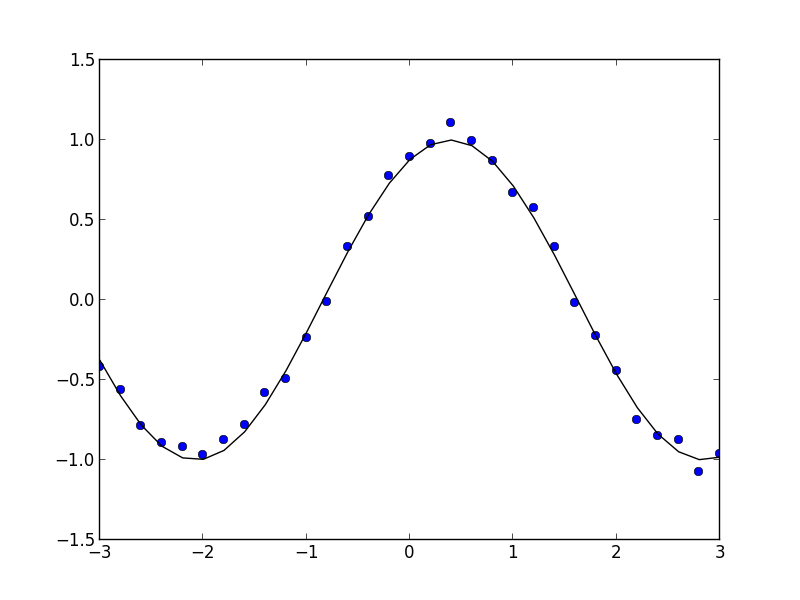
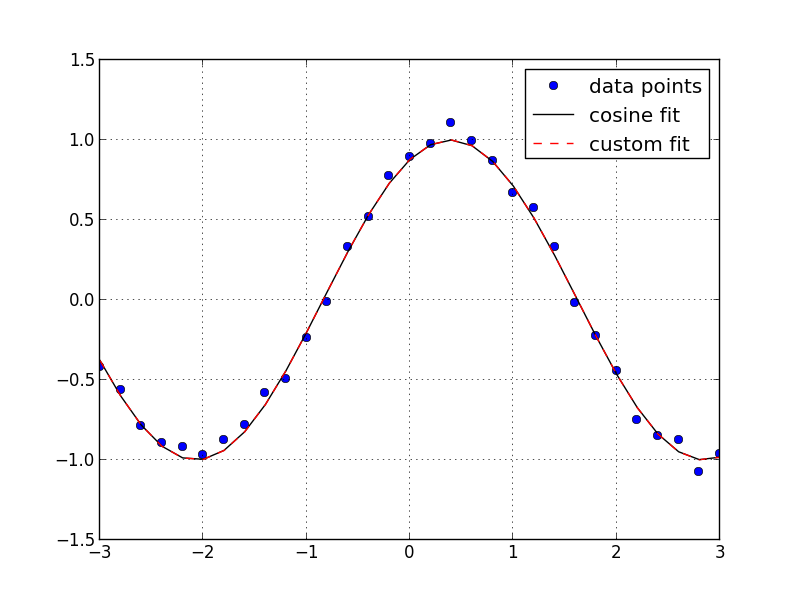
allow to use a custom fit function in the fitting module

Changed region(s): [[0.6562, 0.09, 0.9062, 0.27], [0.25, 0.75, 0.2812, 0.78]]

diff --git a/math/fitting.py b/math/fitting.py
@@ -5,24 +5,36 @@ from scipy import optimize
 from scipy.special import wofz
 import numpy as np
 
-def fit(y, x = None, fit_type='Gaussian'):
+def fit(y, x = None, expression=None, nb_params=None, init=None):
   '''Static method to perform curve fitting directly.
 
   For instance, to fit some (x,y) data with a gaussian function, simply use:
   ::
 
-    F = fit(y, x, fit_type='Gaussian')
+    F = fit(y, x, expression='Gaussian')
 
+  Alternatively you may specify you own function directly defined with Python, like:
+  ::
+    def myf(x, p):
+      return p[0]*x + p[1]
+    F = fit(y, x, expression=myF)
   '''
-  if fit_type == 'Gaussian':
+  if expression == 'Gaussian':
     F = Gaussian()
-  elif fit_type == 'Lorentzian':
+  elif expression == 'Lorentzian':
     F = Lorentzian()
-  elif fit_type == 'Cosine':
+  elif expression == 'Cosine':
     F = Cosine()
   else:
-    print('unknown fitting type: %s' % fit_type)
-    return None
+    F = FitFunction()
+    if not nb_params:
+      print('please specify the number of parameters for your fit function, aborting fit...')
+      return None
+    if not init:
+      init = np.ones(nb_params)
+    for i in range(nb_params):
+      F.add_parameter(init[i], 'p%d' % i)
+    F.expression = expression
   F.fit(y, x)
   return F
 
@@ -60,6 +72,7 @@ class FitFunction:
   
   def __init__(self):
     self.parameters = []
+    self.expression = None
   
   def get_parameters(self):
     '''Return the list of parameters of this fit function.'''
@@ -89,6 +102,11 @@ class FitFunction:
     for i in range(len(params)):
       s += ' * %s = %g\n' % (params[i].name, params[i].value)
     return s
+
+  def compute(self, x):
+    '''Evaluate the fit function at coordinates x.'''
+    p = self.get_parameters()
+    return self.expression(x, p)
 
   def fit(self, y, x = None, verbose = False):
     '''Perform fitting on the given data.
@@ -139,6 +157,9 @@ class Gaussian(FitFunction):
   '''first parameter is position, second is sigma, third is height'''
   def __init__(self, position=0.0, sigma=1.0, height=1.0):
     FitFunction.__init__(self)
+    def G(x, p):
+      return p[2].value * np.exp(-((x-p[0].value)/p[1].value)**2)
+    self.expression = G
     self.add_parameter(position, 'position')
     self.add_parameter(sigma, 'sigma')
     self.add_parameter(height, 'height')
@@ -160,15 +181,13 @@ class Gaussian(FitFunction):
     p = self.get_parameters()
     return 2*p[1].value*np.log(2)
   
-  def compute(self, x):
-    '''Evaluate the gauss function at coordinates x.'''
-    p = self.get_parameters()
-    return p[2].value * np.exp(-((x-p[0].value)/p[1].value)**2)
-
 class Lorentzian(FitFunction):
   '''first parameter is position, second is gamma'''
   def __init__(self, position=0.0, gamma=1.0):
     FitFunction.__init__(self)
+    def L(x, p):
+      return p[1].value/np.pi/((x-p[0].value)**2 + p[1].value**2)
+    self.expression = L
     self.add_parameter(position, 'position')
     self.add_parameter(gamma, 'width')
   
@@ -182,14 +201,13 @@ class Lorentzian(FitFunction):
     p = self.get_parameters()
     return 2*p[1].value
 
-  def compute(self, x):
-    p = self.get_parameters()
-    return p[1].value/np.pi/((x-p[0].value)**2 + p[1].value**2)
-
 class Cosine(FitFunction):
   '''first parameter is position, second is width'''
   def __init__(self, position=0.0, width=1.0):
     FitFunction.__init__(self)
+    def C(x, p):
+      return np.cos(np.pi*(x-p[0].value)/(2*p[1].value))
+    self.expression = C
     self.add_parameter(position, 'position')
     self.add_parameter(width, 'width')
   
@@ -202,10 +220,6 @@ class Cosine(FitFunction):
   def fwhm(self):
     p = self.get_parameters()
     return 3./4*p[1].value
-
-  def compute(self, x):
-    p = self.get_parameters()
-    return np.cos(np.pi*(x-p[0].value)/(2*p[1].value))
 
 def voigt(x, sigma, gamma):
    # The Voigt function is also the real part of 

diff --git a/examples/plotting/cos_fitting.py b/examples/plotting/cos_fitting.py
@@ -4,17 +4,29 @@ from matplotlib import pyplot as plt
 from pymicro.math.fitting import fit
 
 if __name__ == '__main__':
-  '''Basic curve fitting example.'''
+  '''Basic curve fitting example with a cosine function. The data is 
+  also fitted with a custom function slightly different than the default 
+  Cosine, which lead to the same result.'''
   x = np.linspace(-3.0, 3.0, 31)
-  print x
   # generate some noisy data
   np.random.seed(13)
   y = np.cos(4*x/np.pi - 0.5) + 0.05*np.random.randn(len(x))
 
-  F = fit(y, x, fit_type='Cosine')
-  plt.plot(x, y, 'bo')
-  plt.plot(x, F(x), 'k-')
+  # custom function
+  def C(x, p):
+    return np.sin(np.pi*(x-p[0].value)/(2*p[1].value))*p[2].value
+
+  # perform fitting
+  F = fit(y, x, expression=C, nb_params=3)  
+  C = fit(y, x, expression='Cosine')
+  print F
+  print C
+  plt.plot(x, y, 'bo', label='data points')
+  plt.plot(x, C(x), 'k-', label = 'cosine fit')
+  plt.plot(x, F(x), 'r--', label = 'custom fit')
   plt.xlim(-3, 3)
+  plt.grid()
+  plt.legend(numpoints=1)
 
   image_name = os.path.splitext(__file__)[0] + '.png'
   print 'writting %s' % image_name
